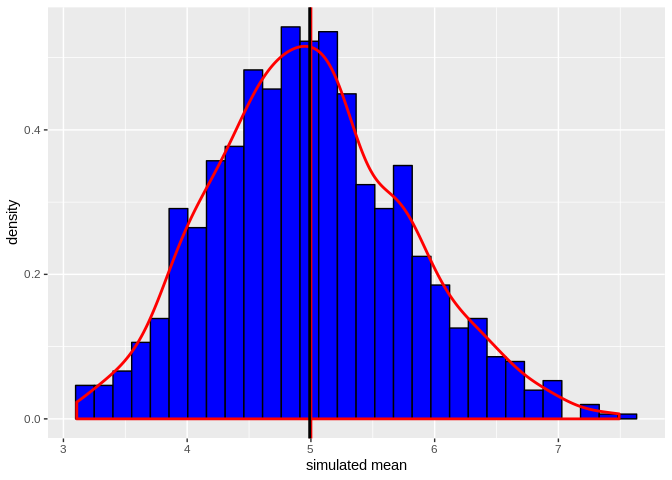
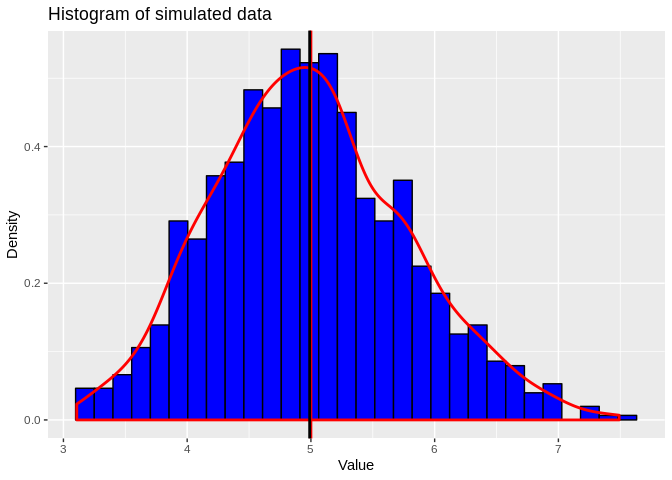
Add files via upload

diff --git a/Assignment1Part2.md b/Assignment1Part2.md
@@ -1,0 +1,234 @@
+Statisic inference - Assignment1 part2
+================
+Simon Baumgart
+May 26, 2019
+
+part II - analysing the tooth growth dataset
+============================================
+
+introduction
+------------
+
+Within this part of the assignment the data set "The Effect of Vitamine C on Tooth Growth in Guinea Pigs" is analyzed. More explanatory material can be found here:
+[r data set - follow this link](https://stat.ethz.ch/R-manual/R-devel/library/datasets/html/ToothGrowth.html)
+
+In short guinea pigs get different doses (0.5, 1, 2 mg/day) of either orange juice (OJ) or vitamine C (VC) and the length of their odontoblast is compared. Within this assignment we ask the question a.) if the dose within the treatments plays a role and if the different treatments have different effects on the length of the odontoblasts.
+
+### loading of the data
+
+``` r
+data(ToothGrowth)
+```
+
+exploration of the dataset
+--------------------------
+
+``` r
+head(ToothGrowth)
+```
+
+    ##    len supp dose
+    ## 1  4.2   VC  0.5
+    ## 2 11.5   VC  0.5
+    ## 3  7.3   VC  0.5
+    ## 4  5.8   VC  0.5
+    ## 5  6.4   VC  0.5
+    ## 6 10.0   VC  0.5
+
+``` r
+str(ToothGrowth)
+```
+
+    ## 'data.frame':    60 obs. of  3 variables:
+    ##  $ len : num  4.2 11.5 7.3 5.8 6.4 10 11.2 11.2 5.2 7 ...
+    ##  $ supp: Factor w/ 2 levels "OJ","VC": 2 2 2 2 2 2 2 2 2 2 ...
+    ##  $ dose: num  0.5 0.5 0.5 0.5 0.5 0.5 0.5 0.5 0.5 0.5 ...
+
+``` r
+summary(ToothGrowth)
+```
+
+    ##       len        supp         dose      
+    ##  Min.   : 4.20   OJ:30   Min.   :0.500  
+    ##  1st Qu.:13.07   VC:30   1st Qu.:0.500  
+    ##  Median :19.25           Median :1.000  
+    ##  Mean   :18.81           Mean   :1.167  
+    ##  3rd Qu.:25.27           3rd Qu.:2.000  
+    ##  Max.   :33.90           Max.   :2.000
+
+``` r
+table(ToothGrowth$supp, ToothGrowth$dose)
+```
+
+    ##     
+    ##      0.5  1  2
+    ##   OJ  10 10 10
+    ##   VC  10 10 10
+
+plotting of the data
+--------------------
+
+``` r
+library("dplyr")
+library("ggplot2")
+data("ToothGrowth")
+
+
+df_means_OJ <- ToothGrowth %>% filter(supp == "OJ") %>% group_by(dose) %>% summarise(value=mean(len)) %>% mutate(supp = "OJ")
+df_means_VC <- ToothGrowth %>% filter(supp == "VC") %>% group_by(dose) %>% summarise(value=mean(len)) %>% mutate(supp ="VC")
+
+df_merged <- rbind(df_means_OJ, df_means_VC)
+
+ggplot(data = ToothGrowth , aes(x = dose,y = len, group = dose, col = dose)) + 
+    geom_boxplot() + facet_grid(.~supp)  + ggtitle("Tooth Growth by length, supplement and dose") +  xlab("Dose (mg/day)") + ylab("Length")
+```
+
+![](Assignment1Part2_files/figure-markdown_github/unnamed-chunk-3-1.png)
+
+This plot already shows that there is a dose response for the length of odontoblasts in both groups. If those are statistically relevant needs to be validated.
+
+statistic comparison between supplements and doses
+--------------------------------------------------
+
+The boxplot indicate that there are differences between the median of the different doses within the different treatment groups. However, it is not clear if - the differecens which we see are significant - the differences between the different treatments are significant
+
+Therefore, the next lines will analyse exactly those differences:
+
+compare the significance between the doses within the orange juice group
+
+``` r
+OJ_05 <- ToothGrowth %>% filter(supp == "OJ") %>% filter(dose == 0.5) %>% select(len)
+OJ_1 <- ToothGrowth %>% filter(supp == "OJ") %>% filter(dose == 1) %>% select(len)
+OJ_2 <- ToothGrowth %>% filter(supp == "OJ") %>% filter(dose == 2) %>% select(len)
+```
+
+``` r
+t.test(OJ_05, OJ_1, paired = F, var.equal = F)
+```
+
+    ## 
+    ##  Welch Two Sample t-test
+    ## 
+    ## data:  OJ_05 and OJ_1
+    ## t = -5.0486, df = 17.698, p-value = 8.785e-05
+    ## alternative hypothesis: true difference in means is not equal to 0
+    ## 95 percent confidence interval:
+    ##  -13.415634  -5.524366
+    ## sample estimates:
+    ## mean of x mean of y 
+    ##     13.23     22.70
+
+``` r
+t.test(OJ_1, OJ_2, paired = F, var.equal = F)
+```
+
+    ## 
+    ##  Welch Two Sample t-test
+    ## 
+    ## data:  OJ_1 and OJ_2
+    ## t = -2.2478, df = 15.842, p-value = 0.0392
+    ## alternative hypothesis: true difference in means is not equal to 0
+    ## 95 percent confidence interval:
+    ##  -6.5314425 -0.1885575
+    ## sample estimates:
+    ## mean of x mean of y 
+    ##     22.70     26.06
+
+Both comparisons show that the comparison to the next higher dose is significant and that we can reject the NULL-Hypothesis that with the treatment there is no difference. We can further say that it is likely that with the higher dosing of orange juice in this given experiment the length of the odontoblasts are increased.
+
+Next we do the same analysis with for the vitamine C group:
+
+``` r
+VC_05 <- ToothGrowth %>% filter(supp == "VC") %>% filter(dose == 0.5) %>% select(len)
+VC_1 <- ToothGrowth %>% filter(supp == "VC") %>% filter(dose == 1) %>% select(len)
+VC_2 <- ToothGrowth %>% filter(supp == "VC") %>% filter(dose == 2) %>% select(len)
+```
+
+``` r
+t.test(VC_05, VC_1, paired = F, var.equal = F)
+```
+
+    ## 
+    ##  Welch Two Sample t-test
+    ## 
+    ## data:  VC_05 and VC_1
+    ## t = -7.4634, df = 17.862, p-value = 6.811e-07
+    ## alternative hypothesis: true difference in means is not equal to 0
+    ## 95 percent confidence interval:
+    ##  -11.265712  -6.314288
+    ## sample estimates:
+    ## mean of x mean of y 
+    ##      7.98     16.77
+
+``` r
+t.test(VC_1, VC_2, paired = F, var.equal = F)
+```
+
+    ## 
+    ##  Welch Two Sample t-test
+    ## 
+    ## data:  VC_1 and VC_2
+    ## t = -5.4698, df = 13.6, p-value = 9.156e-05
+    ## alternative hypothesis: true difference in means is not equal to 0
+    ## 95 percent confidence interval:
+    ##  -13.054267  -5.685733
+    ## sample estimates:
+    ## mean of x mean of y 
+    ##     16.77     26.14
+
+We can conclude that with the higher dosing of vitamine C there is a significant increase of the tooth length, similarly to the orange juice supplemented group.
+
+Finally, the treatments will be compared if orange juice has a similar effect like vitamine c supplement or if there is a difference
+
+``` r
+t.test(VC_05, OJ_05, paired = F, var.equal = F)
+```
+
+    ## 
+    ##  Welch Two Sample t-test
+    ## 
+    ## data:  VC_05 and OJ_05
+    ## t = -3.1697, df = 14.969, p-value = 0.006359
+    ## alternative hypothesis: true difference in means is not equal to 0
+    ## 95 percent confidence interval:
+    ##  -8.780943 -1.719057
+    ## sample estimates:
+    ## mean of x mean of y 
+    ##      7.98     13.23
+
+``` r
+t.test(VC_1, OJ_1, paired = F, var.equal = F)
+```
+
+    ## 
+    ##  Welch Two Sample t-test
+    ## 
+    ## data:  VC_1 and OJ_1
+    ## t = -4.0328, df = 15.358, p-value = 0.001038
+    ## alternative hypothesis: true difference in means is not equal to 0
+    ## 95 percent confidence interval:
+    ##  -9.057852 -2.802148
+    ## sample estimates:
+    ## mean of x mean of y 
+    ##     16.77     22.70
+
+``` r
+t.test(VC_2, OJ_2, paired = F, var.equal = F)
+```
+
+    ## 
+    ##  Welch Two Sample t-test
+    ## 
+    ## data:  VC_2 and OJ_2
+    ## t = 0.046136, df = 14.04, p-value = 0.9639
+    ## alternative hypothesis: true difference in means is not equal to 0
+    ## 95 percent confidence interval:
+    ##  -3.63807  3.79807
+    ## sample estimates:
+    ## mean of x mean of y 
+    ##     26.14     26.06
+
+conclusion
+----------
+
+With these comparison we can conclude that **there are differences between the length of teeth when supplementing with vitamine C or orange juice**. The differences are between the dosing of 0.5 and 1 mg/day. However, there are **no differences to the lower dosed groups when dosing either with vitamine C or orange juice with 2mg/ day** on the growth of the odontoblasts of guinea pigs. It would be however interesting to compare those groups to non-treated groups to see how the base level is. Further, it might be interesting to see if those treatments can be compared to human teeth grows in some way.

diff --git a/Assignment1Part1.md b/Assignment1Part1.md
@@ -48,7 +48,7 @@ library(ggplot2)
 gplot <- data.frame(mns_1000)
 m <- ggplot(gplot, aes(x = mns_1000)) + xlab("simulated mean")
 m <- m + geom_histogram(aes(y=..density..), colour = "black", fill = "blue")
-m + geom_density(colour = "red", size = 1) + geom_vline(xintercept = theoMn, color = "red", size =1) + geom_vline(xintercept = simMn, color = "black", size =1)
+m + geom_density(colour = "red", size = 1) + geom_vline(xintercept = theoMn, color = "red", size =1) + geom_vline(xintercept = simMn, color = "black", size =1) + ggtitle("Histogram of simulated data") +  xlab("Value") + ylab("Density")
 ```
 
 ![](Assignment1Part1_files/figure-markdown_github/unnamed-chunk-3-1.png)
